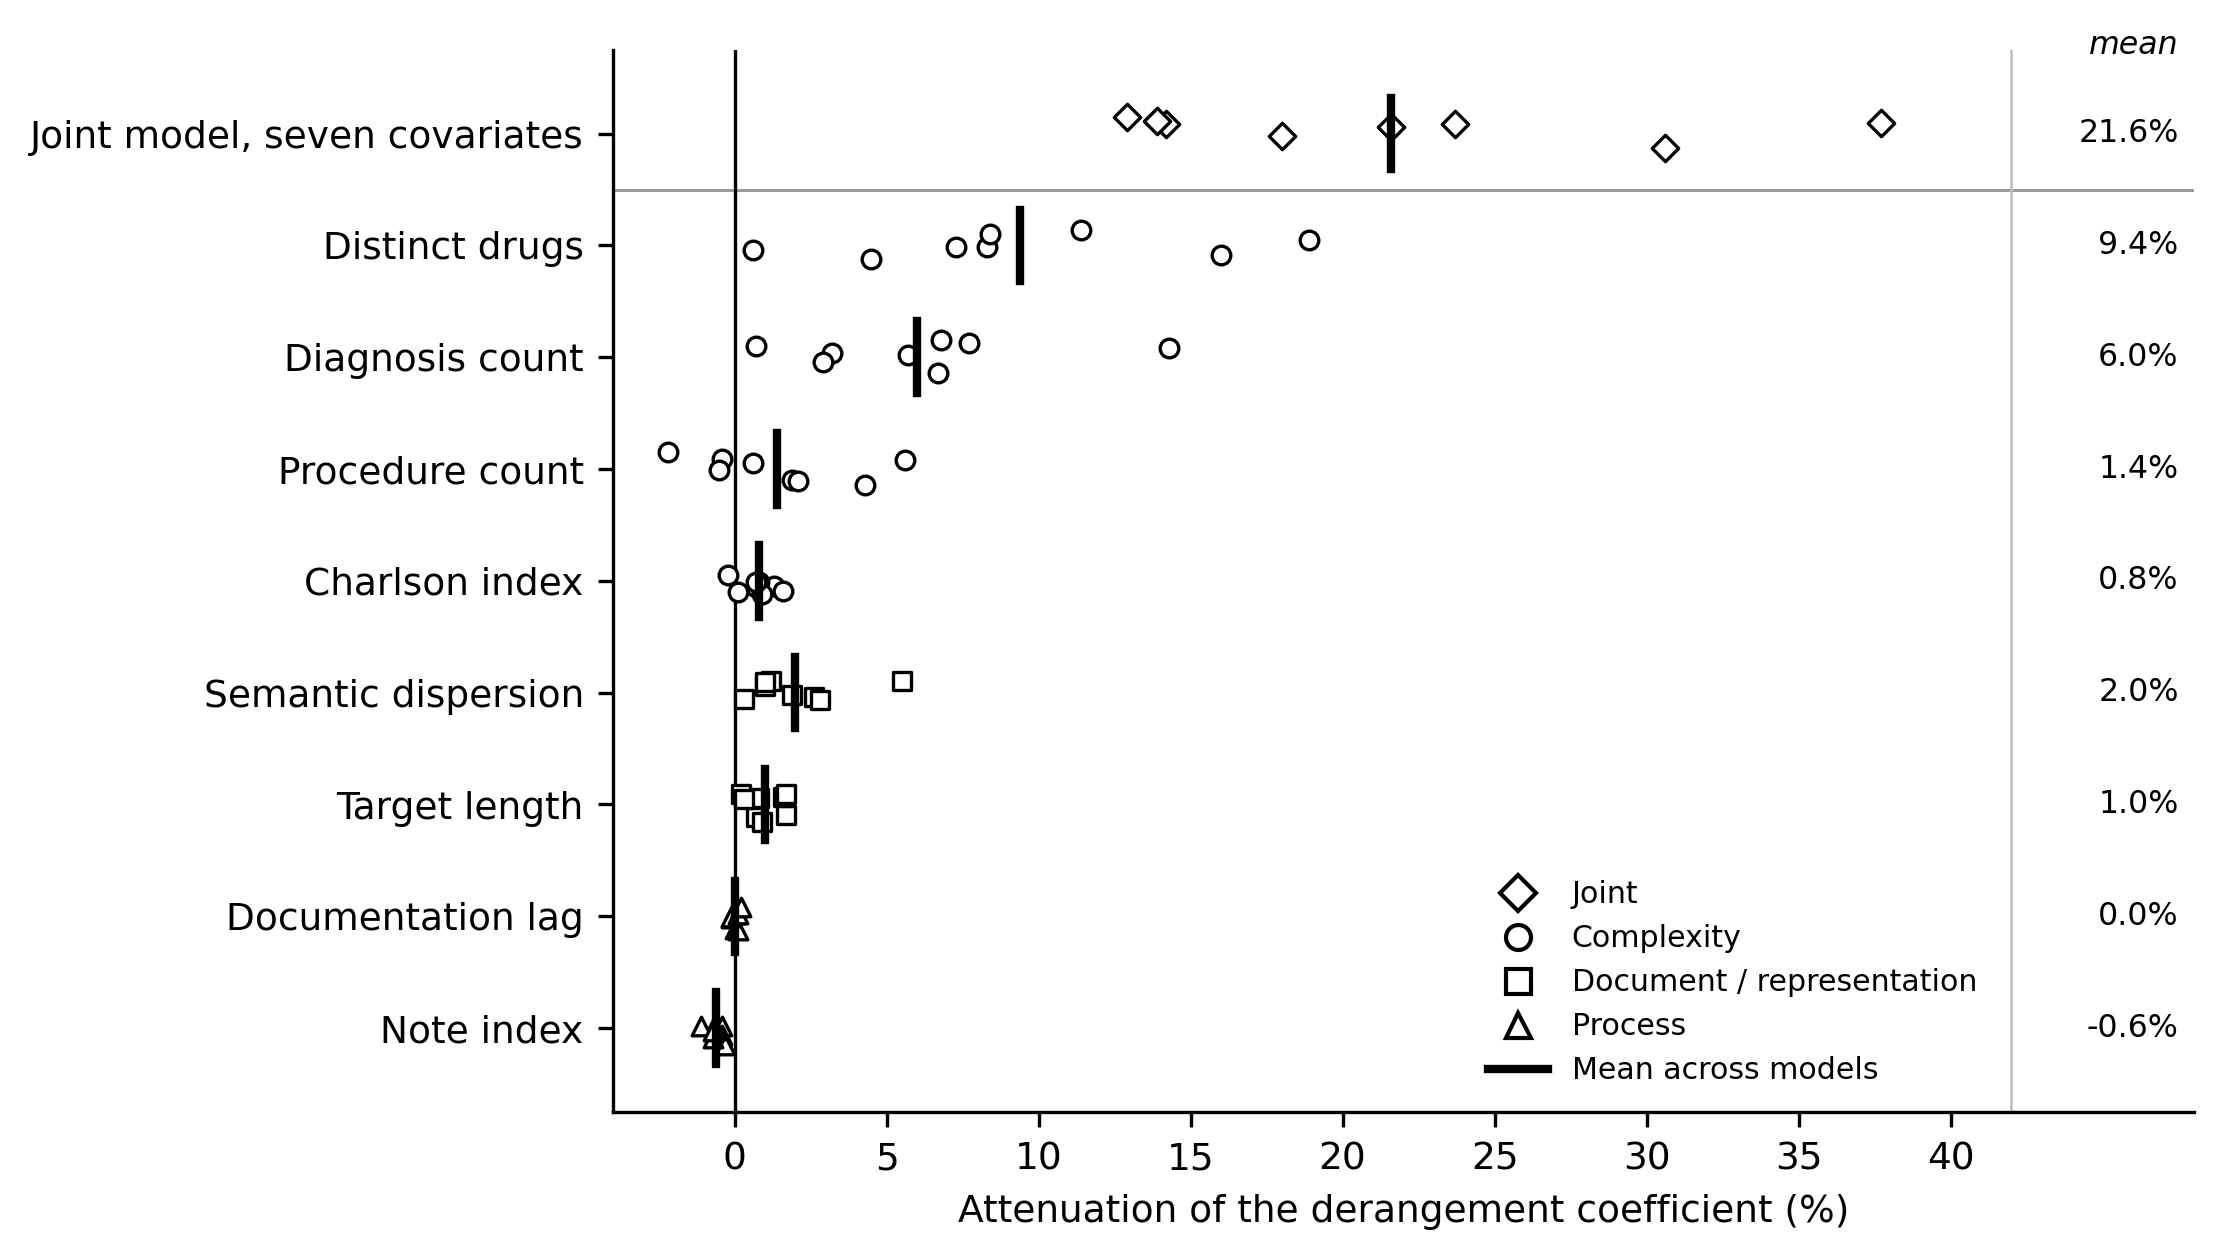
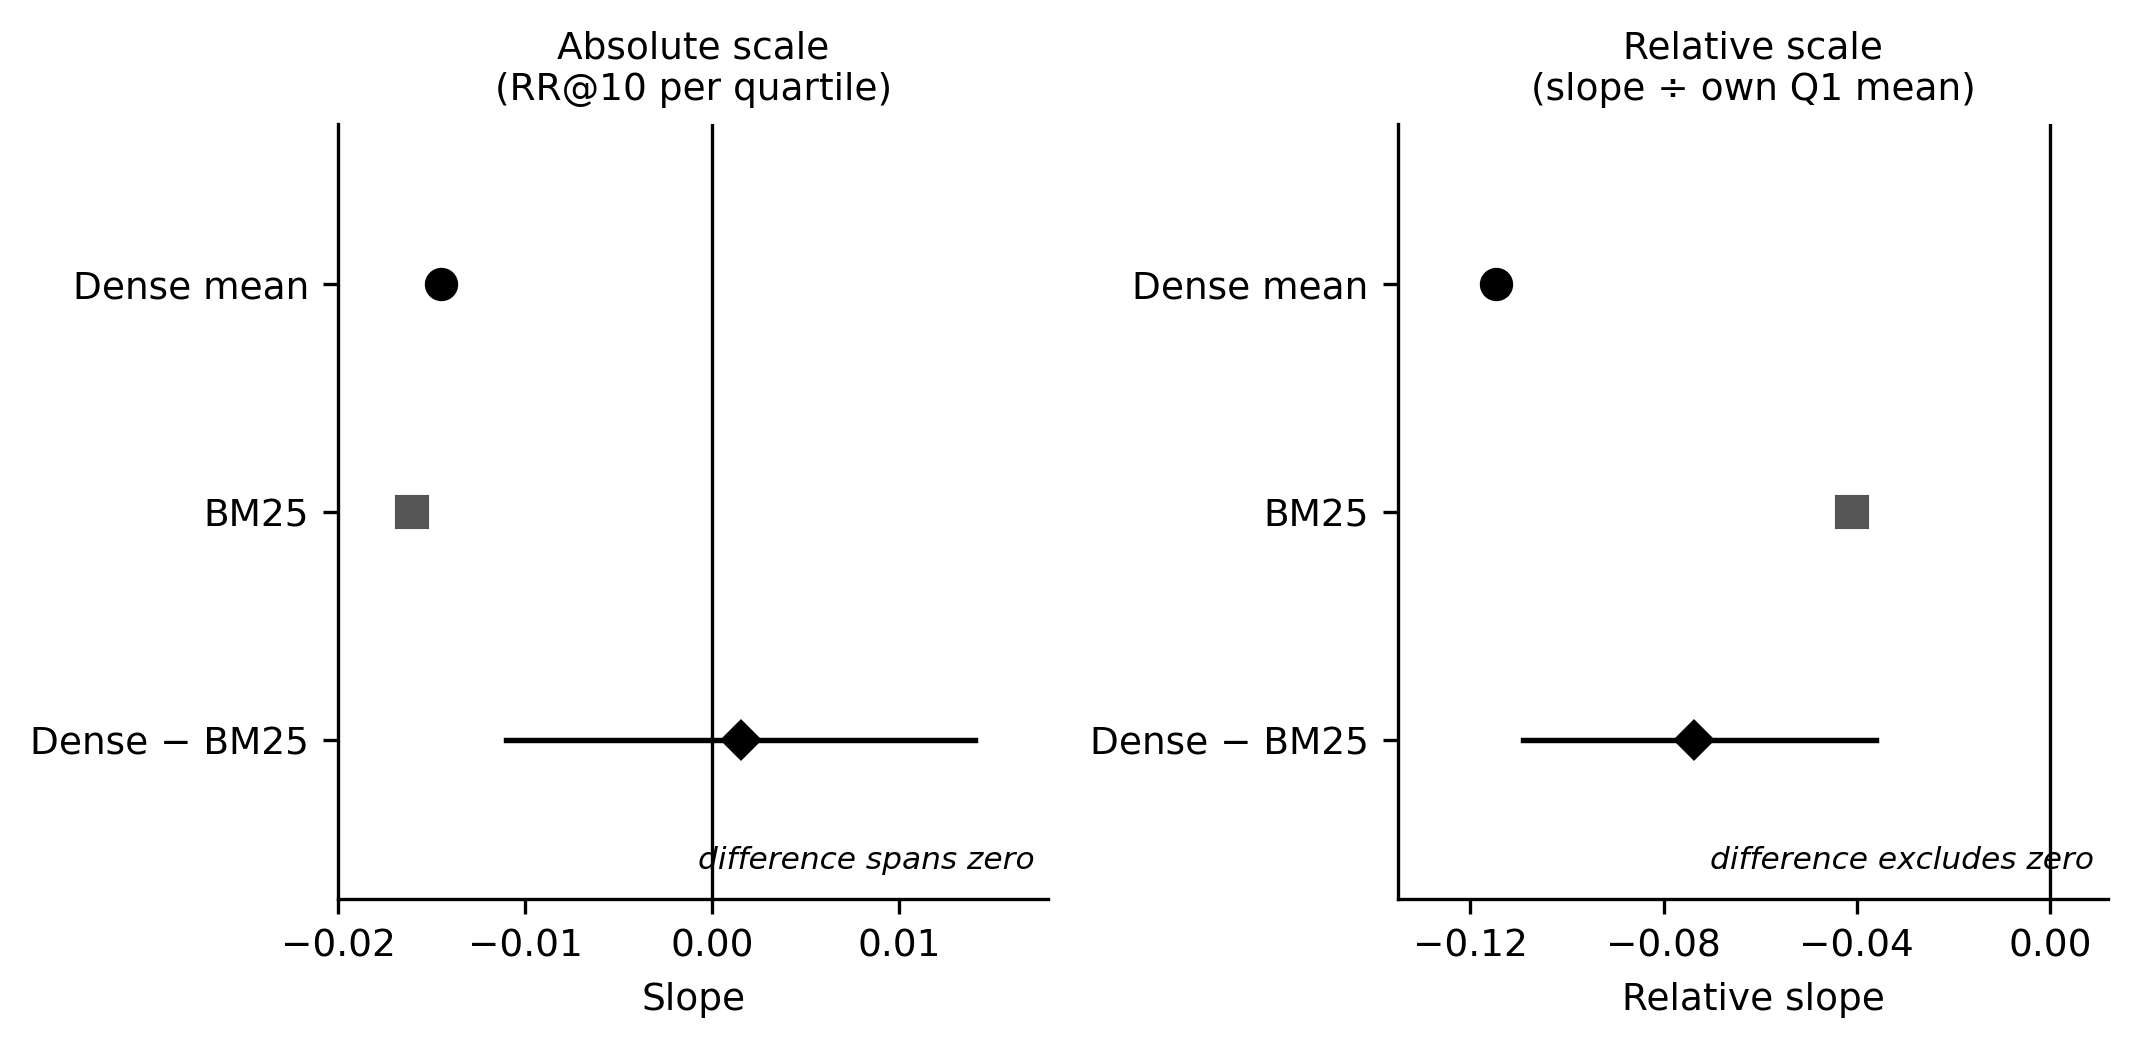
Add files via upload

diff --git a/code/figures/make_figures.py b/code/figures/make_figures.py
@@ -1,6 +1,6 @@
-"""Paper 20 -- manuscript figures 1-4.
+"""Paper 20 -- manuscript figures 1, 2, 4 and 5.
 
-Draws the four figures exactly as embedded in the manuscript, at 300 dpi, as
+Draws four of the five manuscript figures exactly as embedded, at 300 dpi, as
 RGB PNG (JMIR requires PNG; transparency is flattened onto white so it cannot
 render as black in production).
 
@@ -106,7 +106,7 @@ for ax,(title,d,b,(df,lo,hi)) in zip(axs,panels):
 axs[0].set_xlabel("Slope"); axs[1].set_xlabel("Relative slope")
 axs[0].set_xlim(-0.020,0.018); axs[0].set_xticks([-0.02,-0.01,0,0.01])
 axs[1].set_xlim(-0.135,0.012); axs[1].set_xticks([-0.12,-0.08,-0.04,0])
-plt.tight_layout(); plt.savefig(OUT/"Figure3.png",dpi=DPI,bbox_inches="tight"); plt.close()
+plt.tight_layout(); plt.savefig(OUT/"Figure4.png",dpi=DPI,bbox_inches="tight"); plt.close()
 
 # ---------------- Figure 4: per-model attenuation (dot plot) ----------------
 # Joint row and the six clinical/process covariates plus target length:
@@ -143,14 +143,14 @@ ax.text(47.5,len(rows)-0.35,"mean",ha="right",va="bottom",fontsize=7.6,style="it
 from matplotlib.lines import Line2D
 h=[Line2D([],[],marker=mk[k],ls="",mfc="white",mec="black",label=k) for k in mk]+[Line2D([],[],color="black",lw=2,label="Mean across models")]
 ax.legend(handles=h,loc="lower right",bbox_to_anchor=(0.88,0.0),fontsize=7.2,frameon=False)
-plt.savefig(OUT/"Figure4.png",dpi=DPI,bbox_inches="tight"); plt.close()
+plt.savefig(OUT/"Figure5.png",dpi=DPI,bbox_inches="tight"); plt.close()
 
 # Flatten to RGB on white (JMIR production renders transparency unpredictably).
-for _n in range(1, 5):
+for _n in (1, 2, 4, 5):
     _p = OUT / f"Figure{_n}.png"
     _im = Image.open(_p)
     if _im.mode == "RGBA":
         _bg = Image.new("RGB", _im.size, (255, 255, 255))
         _bg.paste(_im, mask=_im.getchannel("A"))
         _bg.save(_p, dpi=(DPI, DPI))
-print(f"wrote Figure1-4.png to {OUT}")
+print(f"wrote Figure1, 2, 4 and 5 to {OUT}; Figure3 is drawn by make_figure3.py")

diff --git a/code/figures/make_figure3.py b/code/figures/make_figure3.py
@@ -75,10 +75,21 @@ def draw():
     return fig
 
 if __name__ == "__main__":
-    for dpi, out in ((200, "fig/fig3_embed.png"), (120, "fig/fig3_upload.png")):
+    for dpi, out in ((200, "fig/fig3_embed.png"), (120, "fig/fig3_upload.png"),
+                     (300, "fig/fig3_300.png")):
         f = draw()
         f.savefig(out, dpi=dpi)
         plt.close(f)
+        # Flatten any alpha channel onto white. JMIR states that figures must
+        # not contain transparent sections because its system renders them
+        # incorrectly, and make_figures.py does the same for the other four.
+        from PIL import Image
+        im = Image.open(out)
+        if im.mode in ("RGBA", "LA", "P"):
+            rgba = im.convert("RGBA")
+            bg = Image.new("RGB", rgba.size, (255, 255, 255))
+            bg.paste(rgba, mask=rgba.getchannel("A"))
+            bg.save(out, dpi=(dpi, dpi))
     from PIL import Image
     for p in ("fig/fig3_embed.png", "fig/fig3_upload.png"):
         print(p, Image.open(p).size)

diff --git a/docs/CHANGELOG.md b/docs/CHANGELOG.md
@@ -41,6 +41,13 @@ retrained.
   with 95% intervals for both exposures. Its values are transcribed from the
   printed output of `paper20_b3h3_linearity.py`, not read from a result file;
   the docstring names the two runs.
+- `figures/Figure3.png` — the new figure, at 300 dpi to match the others.
+  `make_figure3.py` now flattens any alpha channel onto white before
+  writing, as `make_figures.py` already did: JMIR states that figures must
+  not contain transparent sections because its system renders them
+  incorrectly, and this was the only figure saved as RGBA.
+- `figures/README.md` — what each figure shows and which script draws it. The
+  file was referenced from `code/README.md` but did not exist.
 - `code/exploratory/paper20_idf_covariate.py` — mean query inverse document
   frequency as a covariate. Reported nowhere in the manuscript: the statistic
   cannot separate query selection from documentation, because query vocabulary
@@ -70,6 +77,12 @@ retrained.
 - `docs/REPRODUCE.md` gains section 3.5, the revision analyses with their
   commands. The former 3.5 to 3.9 are renumbered 3.6 to 3.10, and the three
   cross-references in the stage 1 and stage 2 text are updated to match.
+- **Figure numbering.** The revision inserts a new Figure 3, so the figures
+  previously deposited as `Figure3.png` and `Figure4.png` are now
+  `Figure4.png` and `Figure5.png`; their content is unchanged and still matches
+  the manuscript byte for byte. `code/figures/make_figures.py` writes the new
+  names, and no longer writes `Figure3.png`, which would otherwise overwrite
+  the new figure on the next run.
 
 ## 1.1.0 — 2026-09-21
 

diff --git a/figures/README.md b/figures/README.md
@@ -1,0 +1,31 @@
+# Figures
+
+The five figures of the manuscript, as PNG at 300 dpi, RGB with transparency
+flattened onto white — JMIR requires PNG and renders transparency
+unpredictably in production.
+
+| file | shows | drawn by |
+|---|---|---|
+| `Figure1.png` | cohort construction and attrition | `../code/figures/make_figures.py` |
+| `Figure2.png` | change in reciprocal rank at 10 per derangement quartile, by model | `../code/figures/make_figures.py` |
+| `Figure3.png` | mean reciprocal rank at 10 by stratum under both exposures, with 95% confidence intervals, one panel per contrastively trained retriever | `../code/figures/make_figure3.py` |
+| `Figure4.png` | dense versus lexical decline on absolute and relative scales | `../code/figures/make_figures.py` |
+| `Figure5.png` | attenuation of the derangement coefficient by candidate explanation | `../code/figures/make_figures.py` |
+
+Figure 3 was added at revision; what the submitted version numbered 3 and 4 are
+now 4 and 5.
+
+Both generators declare their plotted values rather than re-deriving them at
+draw time, so drawing a chart does not require rerunning the pipeline and a
+figure cannot change silently when an upstream run is repeated. Each docstring
+names the run its values come from. `make_figure3.py` takes its per-quartile
+means and intervals from the printed output of
+`../code/stage3_analysis/paper20_b3h3_linearity.py`, for the composite and for
+OASIS.
+
+Regenerate with:
+
+```bash
+python ../code/figures/make_figures.py --out-dir .
+python ../code/figures/make_figure3.py          # writes fig/fig3_300.png
+```
